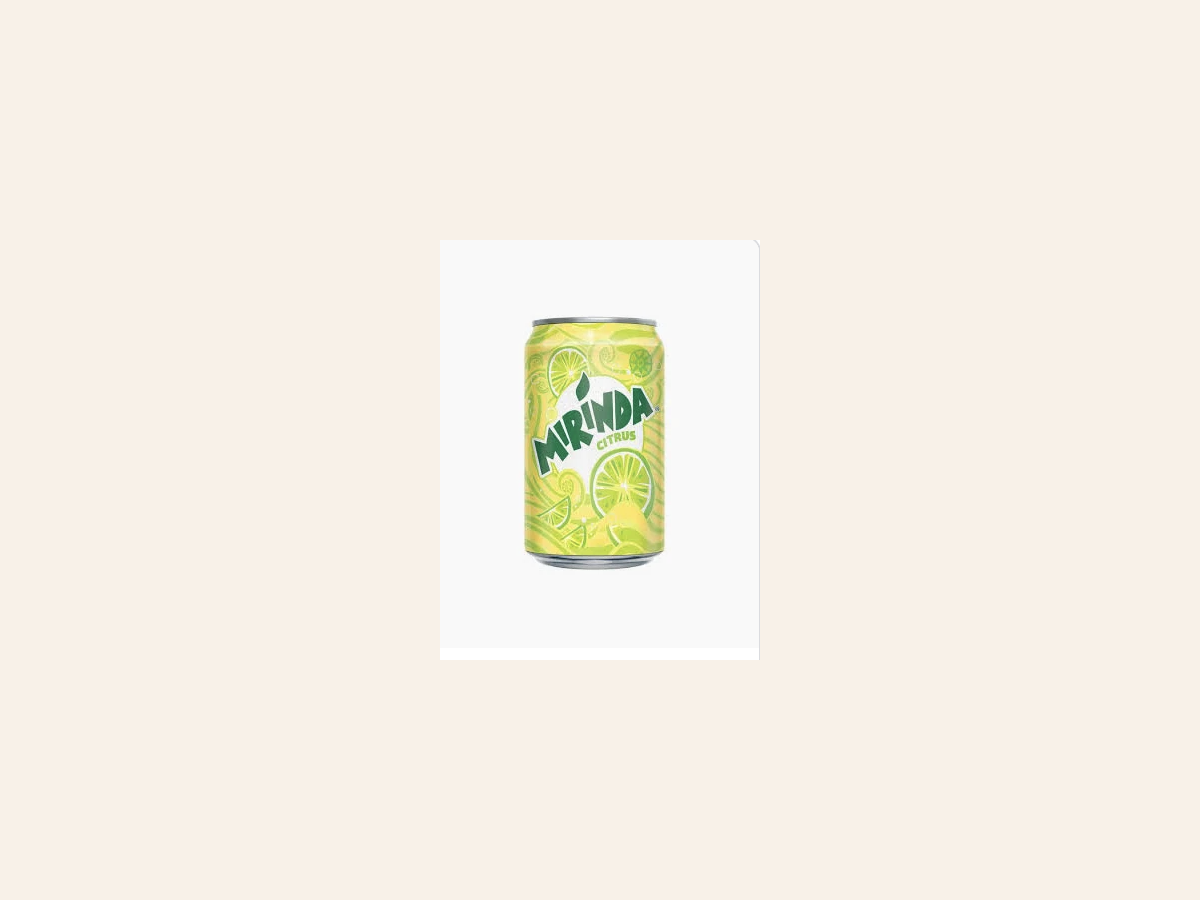
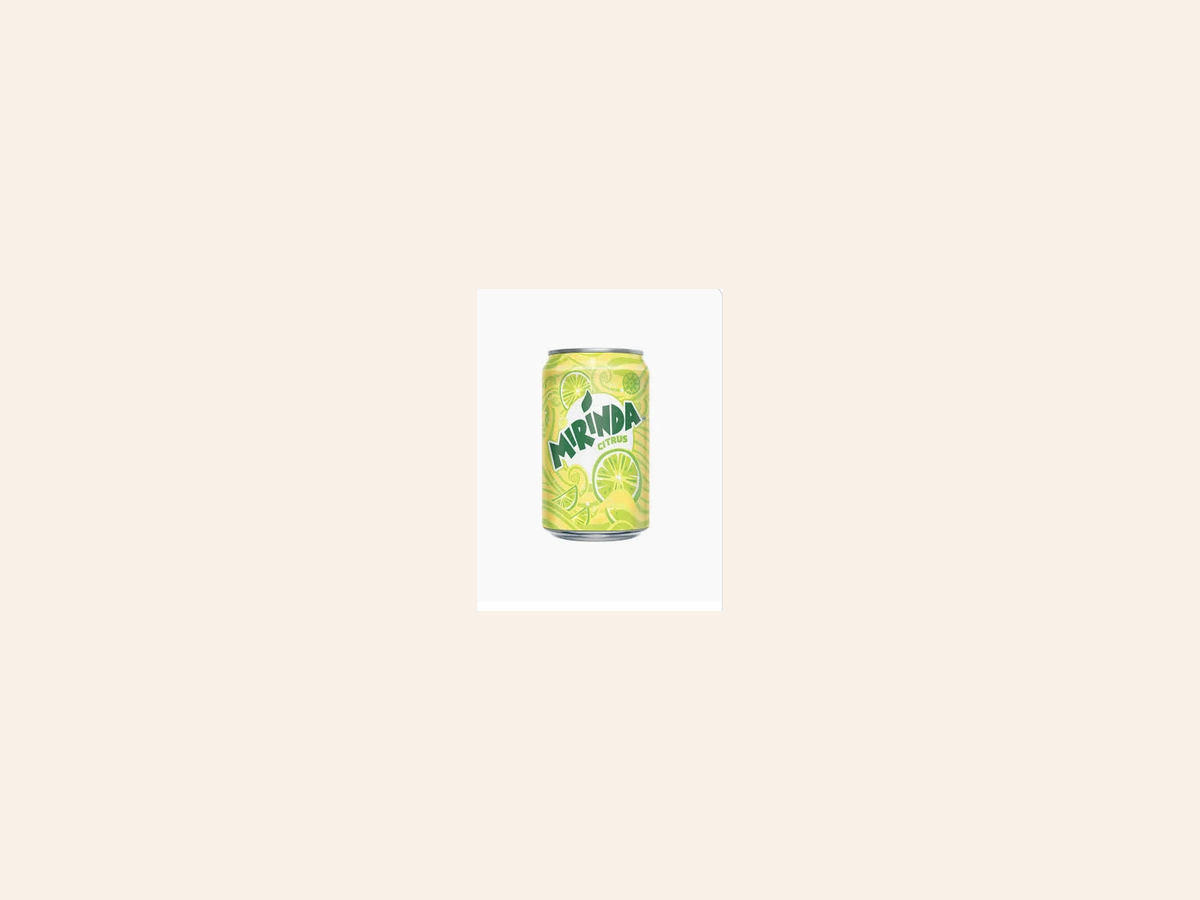
Fix drink bottle images and Pepsi sizes

Changed region(s): [[0.4317, 0.3422, 0.555, 0.6533]]

diff --git a/src/data.ts b/src/data.ts
@@ -146,9 +146,9 @@ const RAW_INITIAL_MENU: MenuItem[] = [
   { id: 'sc-7', nameAr: 'جبنة شيدر', nameEn: 'Cheddar Cheese Sauce', category: 'sauces', price: 2, calories: 160, image: '/menu/sauces/cheese-sauce.jpeg' },
 
   // Drinks shown on the printed menu.
-  { id: 'dr-1', nameAr: 'بيبسي', nameEn: 'Pepsi', category: 'drinks', price: 3, calories: 150, sizes: sizes(['صغير', 3, 150], ['وسط', 5], ['كبير', 9]), image: '/menu/drinks/pepsi-can.png' },
+  { id: 'dr-1', nameAr: 'بيبسي', nameEn: 'Pepsi', category: 'drinks', price: 3, calories: 150, sizes: sizes(['صغير', 3, 150], ['وسط', 5], ['كبير', 9]), image: '/menu/drinks/pepsi-bottle.png' },
   { id: 'dr-2', nameAr: 'الربيع', nameEn: 'Rabeea Juice', category: 'drinks', price: 2, calories: 135, image: '/menu/drinks/rabeea-orange.png' },
-  { id: 'dr-3', nameAr: 'ماء', nameEn: 'Water', category: 'drinks', price: 1, calories: 0, image: '/menu/drinks/water.svg' },
+  { id: 'dr-3', nameAr: 'ماء', nameEn: 'Water', category: 'drinks', price: 1, calories: 0, image: '/menu/drinks/water-bottle.png' },
   { id: 'dr-4', nameAr: 'مونتن ديو', nameEn: 'Mountain Dew', category: 'drinks', price: 3, calories: 170, image: '/menu/drinks/mountain-dew-can.png' },
   { id: 'dr-5', nameAr: 'سفن أب', nameEn: '7 Up', category: 'drinks', price: 3, calories: 140, image: '/menu/drinks/7up-can.png' },
   { id: 'dr-6', nameAr: 'سفن أب زيرو', nameEn: '7 Up Zero', category: 'drinks', price: 3, calories: 0, image: '/menu/drinks/7up-zero-can.png' },

diff --git a/src/App.tsx b/src/App.tsx
@@ -280,7 +280,7 @@ const MenuItemImage = ({ item }: { item: MenuItem }) => {
           : shouldUseSquareFrame
             ? "object-cover"
             : shouldUseDrinkFrame
-              ? "object-contain p-4"
+              ? "object-contain p-2"
               : "object-cover group-hover:scale-110"
       )}
       referrerPolicy="no-referrer"
